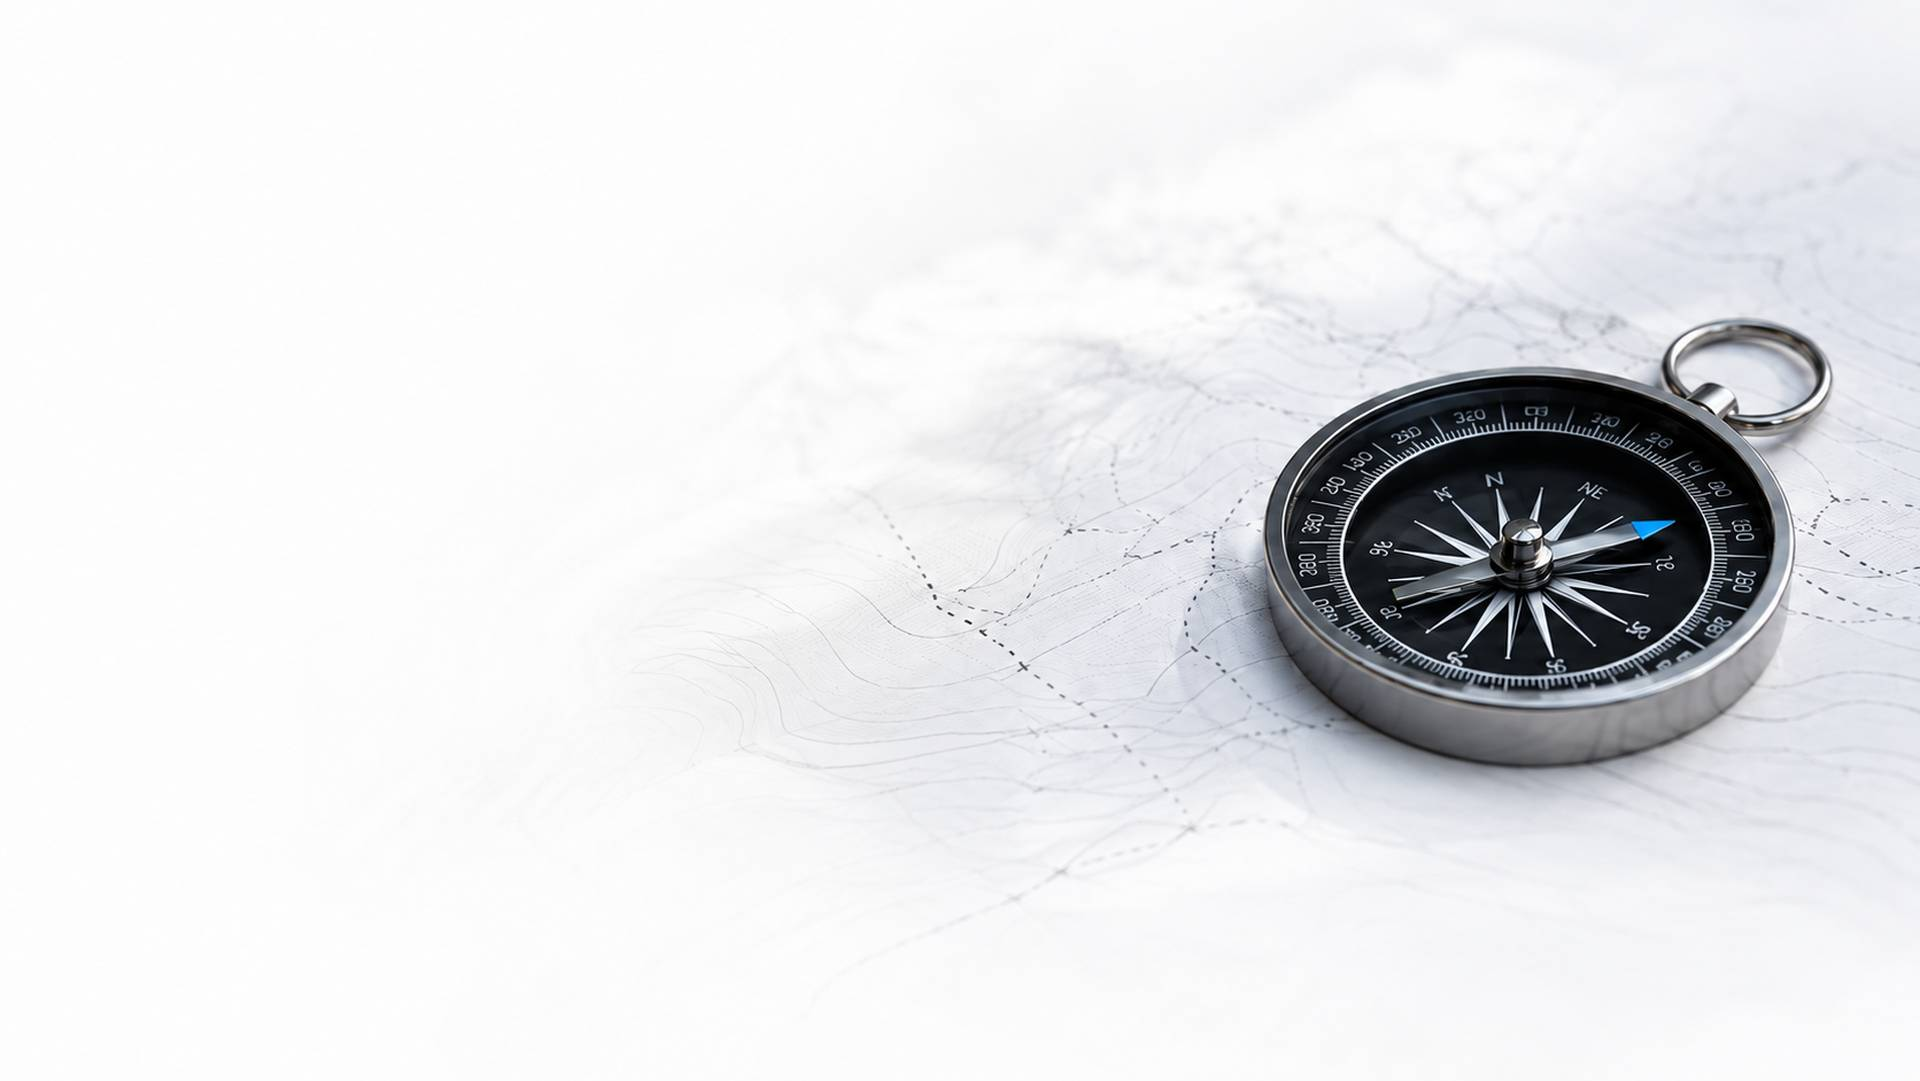
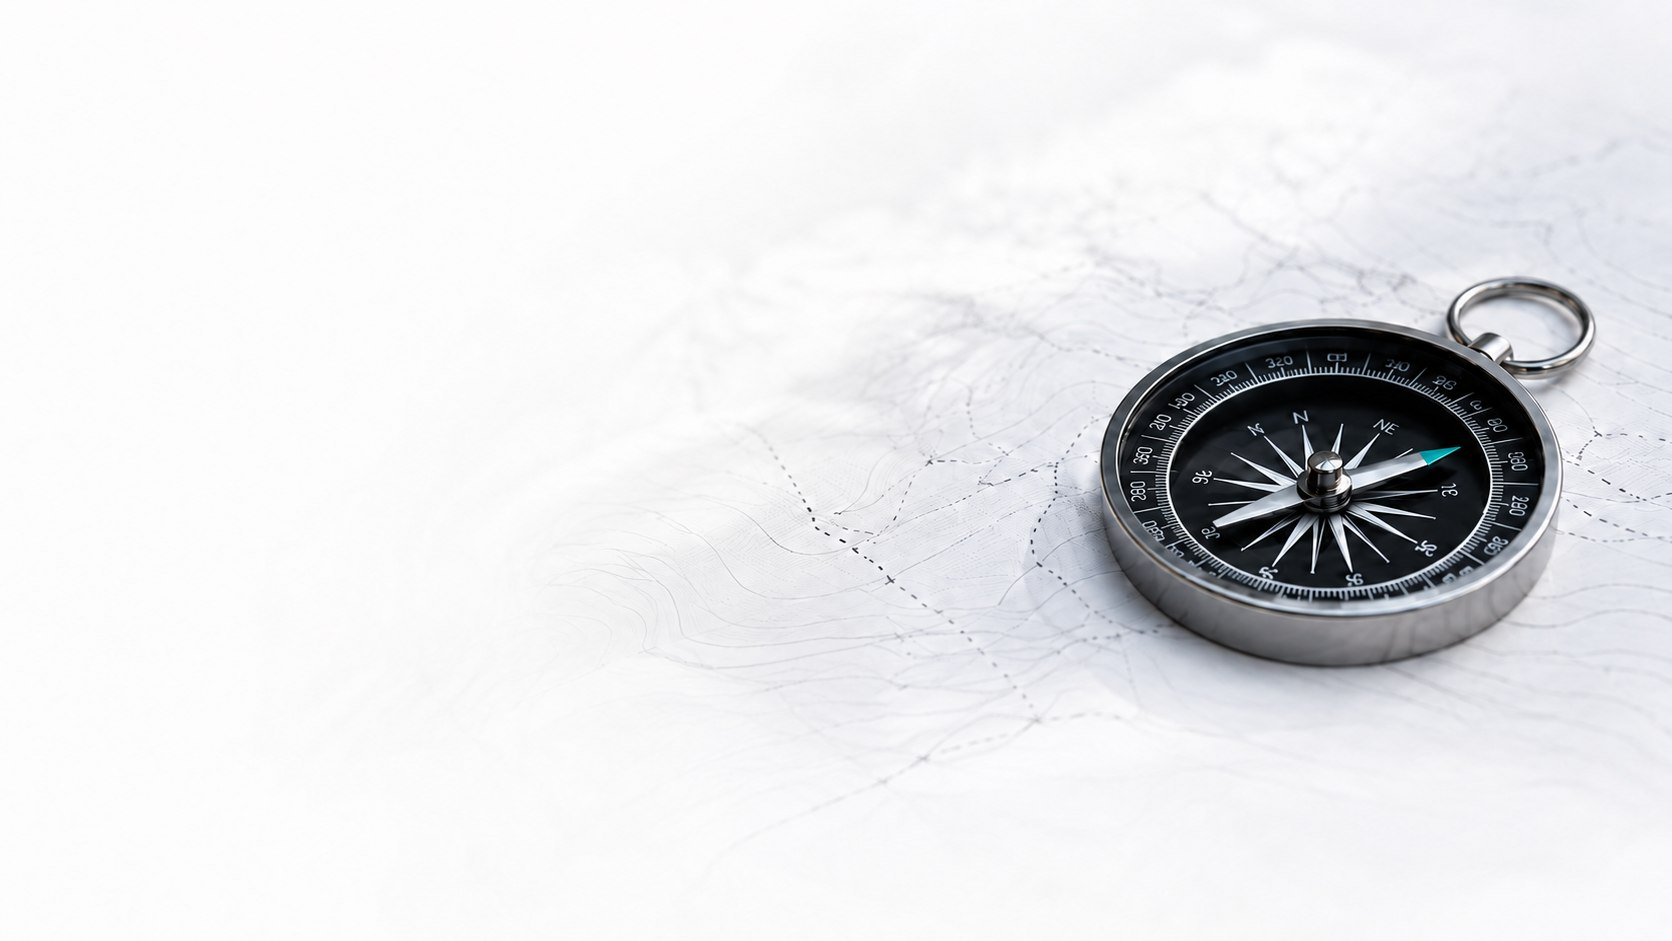
Check-Platzhalter auf 790px erhöht (Schritte 4/5/7 höher als 735px — Hero-Höhe je Schritt jetzt stabil, verifiziert bei 1024/1280/1440); Kompass-Bild mit Petrol-Nadel

Changed region(s): [[0.6531, 0.339, 0.933, 0.6472], [0.8708, 0.339, 0.9641, 0.4006], [0.8397, 0.4006, 0.8708, 0.4315]]

diff --git a/styles.css b/styles.css
@@ -188,7 +188,7 @@ img{max-width:100%;display:block}
 /* Desktop: fester Platzhalter in Höhe des größten Schritts —
    der Hero bleibt stabil 100vh, die Karte atmet nach unten ins Bild */
 .check-side{position:relative}
-@media (min-width:961px){.check-side{min-height:735px}}
+@media (min-width:961px){.check-side{min-height:790px}}
 .handnote{display:flex;align-items:flex-start;gap:.5rem;margin-bottom:.4rem;
   color:var(--blue);font-family:"Caveat",cursive;font-size:clamp(1.6rem,2.4vw,2.1rem);font-weight:700;
   transform:rotate(-2deg);line-height:1;padding-left:.4rem}
